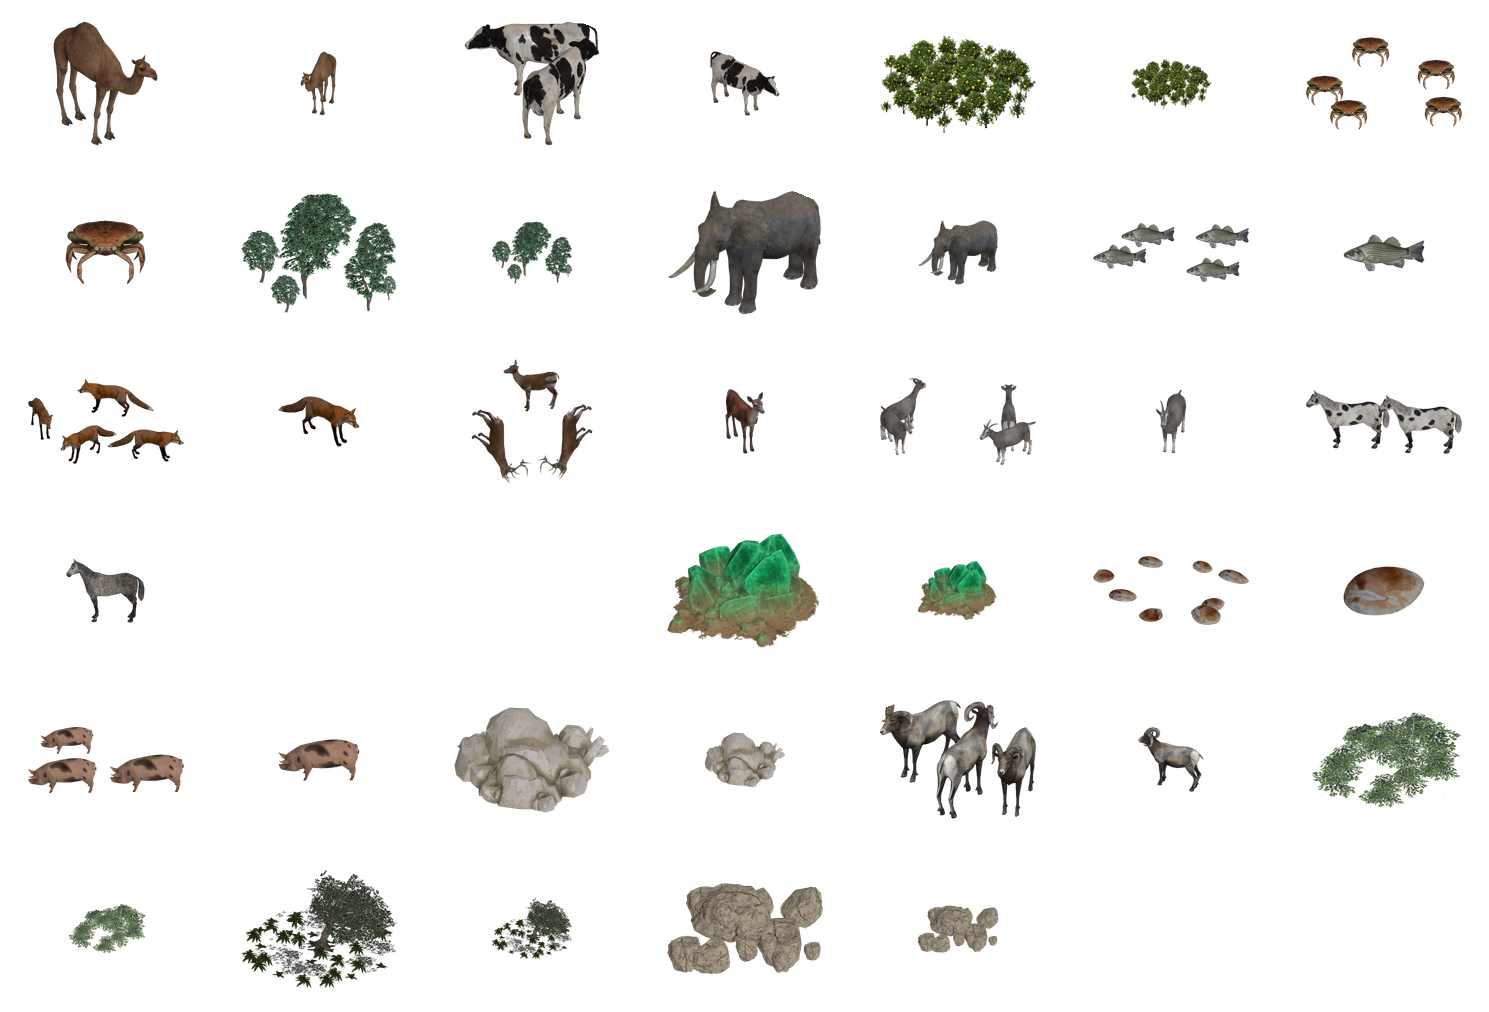
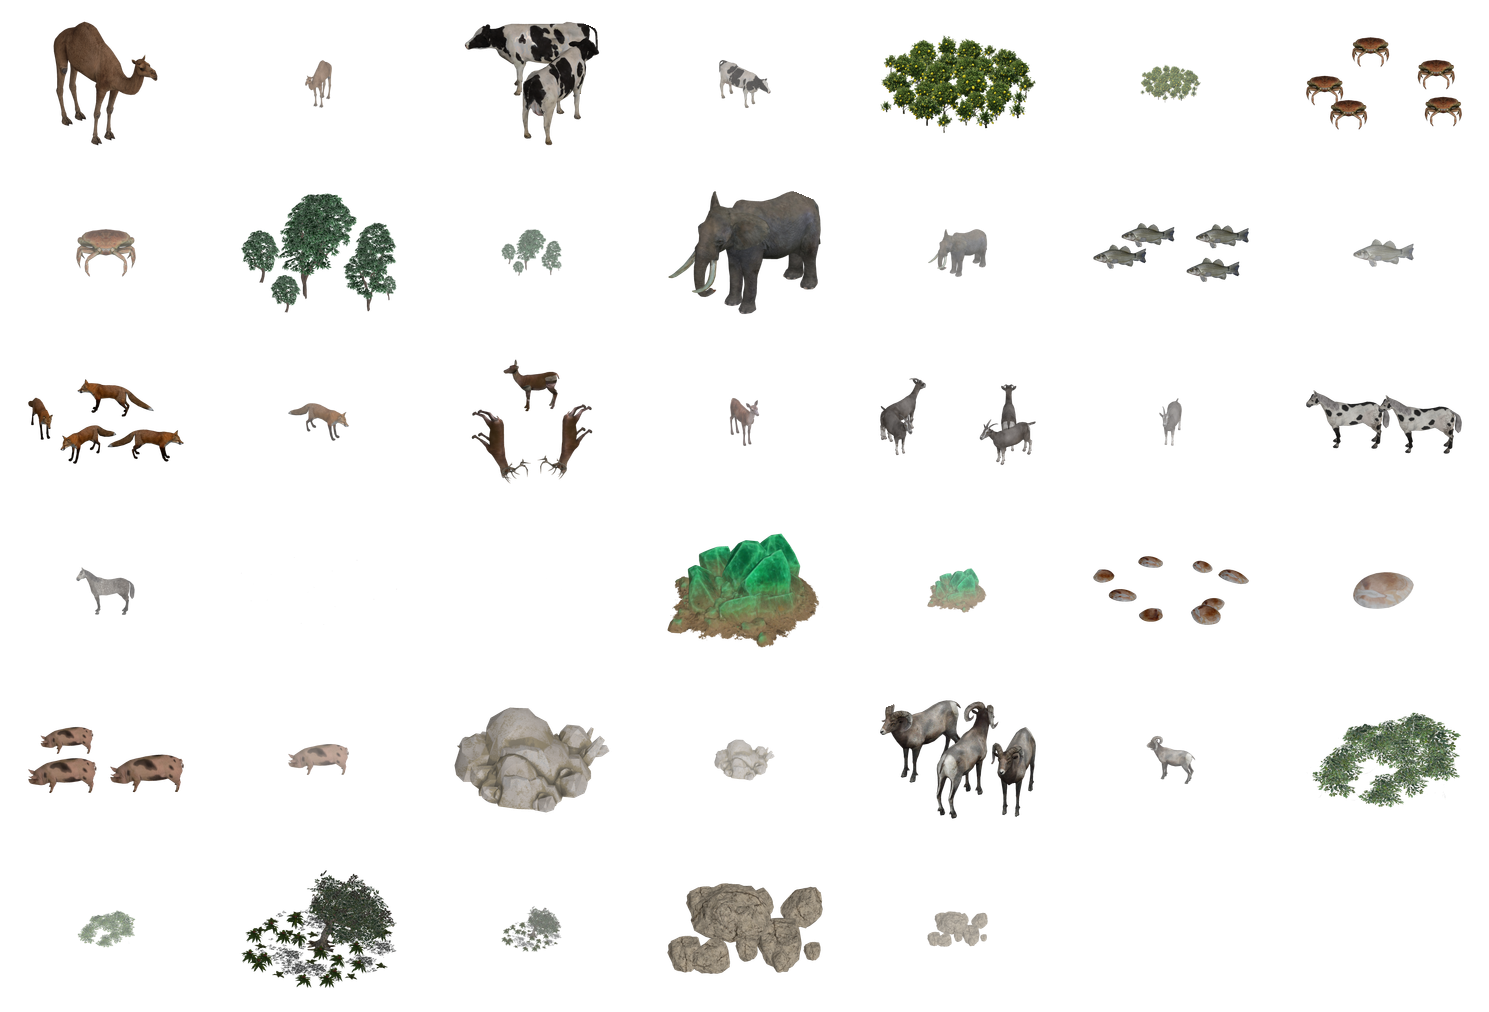
feat: tone down SOLO resource sprites to 0.30 scale at 70% opacity
Shrinks SOLO from 0.40 to 0.30 and adds an optional opacity knob to
bakeCell so SOLO cells render at 70% opacity. Reads as an accessory
beside the rural improvement instead of competing for visual weight.

diff --git a/scripts/bake-resources.ts b/scripts/bake-resources.ts
@@ -44,11 +44,11 @@ import {
 } from "./lib/atlas-bake.js";
 import sharp from "sharp";
 
-// SOLO resources sit alongside a rural improvement (Pasture/Camp/Mine) which
-// itself bakes at SAFE_SCALE. Baking SOLO at the same scale makes the single
-// animal/figure read as a peer to the structure; shrinking it produces the
-// "accessory next to the building" look the game has.
-const SOLO_SCALE = 0.4;
+// SOLO resources sit alongside a rural improvement (Pasture/Camp/Mine). Small
+// scale + slight transparency reads as an accessory next to the structure
+// rather than competing with it for visual weight.
+const SOLO_SCALE = 0.3;
+const SOLO_OPACITY = 0.7;
 
 const __filename = fileURLToPath(import.meta.url);
 const __dirname = dirname(__filename);
@@ -163,8 +163,10 @@ async function main(): Promise<void> {
 		// No brightness tweak. Resources are typically clusters of small
 		// figures (animals, fish, etc.); brightening washes them out and the
 		// improvement layer drawn on top already carries its own lift.
-		const scale = pick.variant === "SOLO" ? SOLO_SCALE : SAFE_SCALE;
-		const baked = await bakeCell(pick.path, hexMask, { scale });
+		const isSolo = pick.variant === "SOLO";
+		const scale = isSolo ? SOLO_SCALE : SAFE_SCALE;
+		const opacity = isSolo ? SOLO_OPACITY : 1;
+		const baked = await bakeCell(pick.path, hexMask, { scale, opacity });
 		composites.push({ input: baked, left: rect.x, top: rect.y });
 		const key = `RESOURCE_${pick.name}_${pick.variant}`;
 		sprites[key] = rect;

diff --git a/scripts/lib/atlas-bake.ts b/scripts/lib/atlas-bake.ts
@@ -62,6 +62,7 @@ export interface BakeCellOptions {
 	scale?: number;
 	fit?: "inside" | "cover";
 	tweak?: { brightness?: number; saturation?: number };
+	opacity?: number;
 }
 
 
@@ -171,10 +172,19 @@ export async function bakeCell(
 		toned = await sharp(toned).modulate(options.tweak).png().toBuffer();
 	}
 
-	return sharp(toned)
+	const clipped = await sharp(toned)
 		.composite([{ input: hexMask, blend: "dest-in" }])
 		.png()
 		.toBuffer();
+
+	if (options.opacity != null && options.opacity < 1) {
+		return sharp(clipped)
+			.ensureAlpha()
+			.linear([1, 1, 1, options.opacity], [0, 0, 0, 0])
+			.png()
+			.toBuffer();
+	}
+	return clipped;
 }
 
 export interface CellGrid {